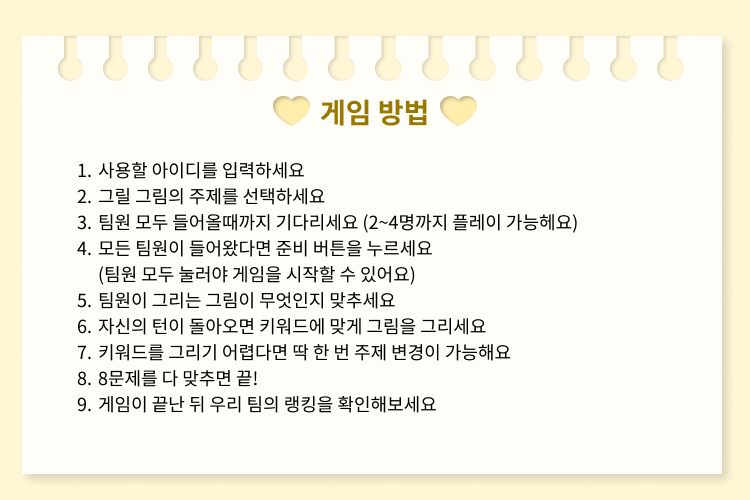
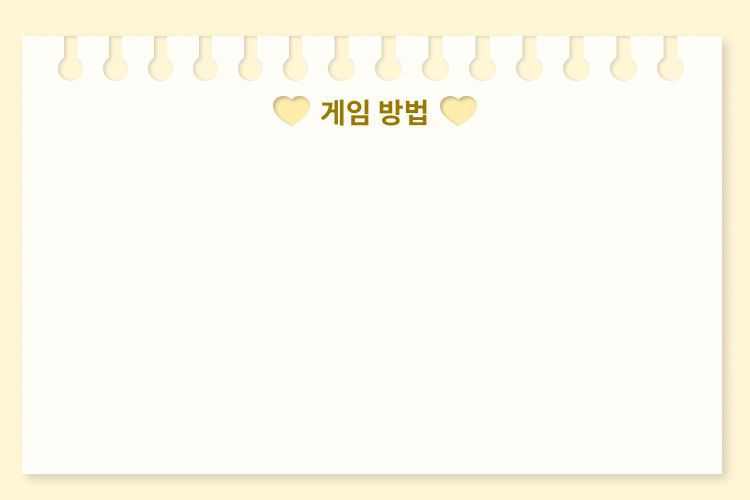
:sparkles:[Feat] 게임설명 화면 완성

Changed region(s): [[0.092, 0.3, 0.7667, 0.84]]

diff --git a/src/main/java/org/zero/frame/GameExplan.java b/src/main/java/org/zero/frame/GameExplan.java
@@ -1,25 +1,64 @@
 package org.zero.frame;
 
-import java.awt.Color;
-import java.awt.Container;
-import java.awt.FlowLayout;
-
-import javax.swing.JButton;
-import javax.swing.JFrame;
-
 import org.zero.common.CommonUtil;
 
+import javax.swing.*;
+import java.awt.*;
+
+import static org.zero.common.CommonUtil.*;
+
 public class GameExplan extends JFrame{
+	Image background = new ImageIcon(Main.class.getResource("/static/img/게임설명.png")).getImage();
+	String arr[]= {
+			"1. 사용할 아이디를 입력하세요", "2. 그릴 그림의 주제를 선택하세요",
+			"3. 팀원 모두 들어올때까지 기다리세요 (2~4명까지 플레이 가능해요)", "4. 모든 팀원이 들어왔다면 준비 버튼을 누르세요",
+			"(팀원 모두 눌러야 게임을 시작할 수 있어요)" ,"5. 팀원이 그리는 그림이 무엇인지 맞추세요",
+			"6. 자신의 턴이 돌아오면 키워드에 맞게 그림을 그리세요", "7. 키워드를 그리기 어렵다면 딱 한 번 주제 변경이 가능해요",
+			"8. 8문제를 다 맞추면 끝!", "9. 게임이 끝난 뒤 우리팀의 랭킹을 확인해보세요"
+	};
+	int y = 140;
 	public GameExplan() {
 		// 시작기본세팅 메서드
 		CommonUtil.settings(this);
-		
-		
-		
+		JPanel p = new JPanel() {
+			@Override
+			protected void paintComponent(Graphics g) {
+				super.paintComponent(g); // JPanel의 paintComponent() 메소드 호출
+				g.drawImage(background, 0, 0, null);
+			}
+		};
+
+		p.setBounds(0,0,750,500);
+		p.setLayout(null);
+		add(p);
+
+		for(int i=0; i<arr.length; i++){
+			JLabel jl = new JLabel(arr[i]);
+			jl.setBounds(80, y, 640, 30); // 위치와 크기를 설정
+			jl.setFont(semiMidFont);
+			p.add(jl);
+			y += 30; // 적절한 간격으로 조정
+		}
+
+
+		JButton gamestartBtn = new JButton("게임시작");
+		gamestartBtn.setBounds(510,400, 170, 45);
+		gamestartBtn.setBackground(new Color(255,228,131));
+		gamestartBtn.setBorder(new RoundBorder(30, new Color(255, 228, 131), 2.0f));
+		gamestartBtn.setForeground(new Color(168, 131, 0));
+		gamestartBtn.setFont(midFont);
+		p.add(gamestartBtn);
+
+
 		setVisible(true);
+
+		gamestartBtn.addActionListener(event ->{
+			dispose();
+			new GameReady();
+		});
 	}
 	
 	public static void main(String[] args) {
-		Result r = new Result();
+		new GameExplan();
 	}
 }

diff --git a/src/main/java/org/zero/common/CommonUtil.java b/src/main/java/org/zero/common/CommonUtil.java
@@ -10,6 +10,7 @@ import javax.swing.JPanel;
 public class CommonUtil {
 	
 	public static Font smallFont = new Font("Noto Sans KR", Font.BOLD, 10);
+	public static Font semiMidFont = new Font("Noto Sans KR", Font.BOLD, 15);
 	public static Font midFont = new Font("Noto Sans KR", Font.BOLD, 20);
 	public static Font largeFont = new Font("Noto Sans KR", Font.BOLD, 30);
 	
